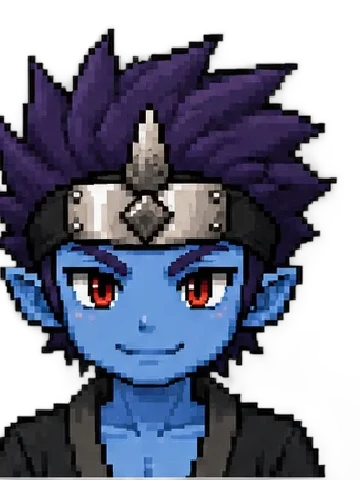
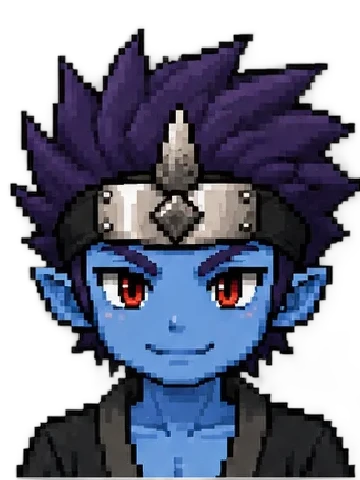
fix: 里ごとのキャラを横長カード化・ネムの相棒をCNPのエマへ・アウンの顔位置調整
- 里ごとの3人を全幅の横長カードに変更（画像左・名前と紹介文を右）。
  .chara-grid本体の定義が後方にあり上書きが負けていたため、
  クラス2つ重ねで詳細度を上げて解決
- ネムの紹介文の相棒を本作のCNPアレンジ設定（ユニコーンのエマ）へ差し替え
- アウンの顔グラは元画像内で顔が中央より左にあるため、切り出し窓を
  30px左へずらして顔を枠の中央に合わせた

diff --git a/style.css b/style.css
@@ -999,11 +999,46 @@ body[data-season='winter'] { background-color: #14171a; }
   background: linear-gradient(90deg, rgba(201, 162, 74, 0.3), transparent);
 }
 
+/* 里ごとの3人は横長カード（画像の右にテキスト・2026-08-04本人指示）。
+   親の.chara-gridのグリッド指定を1列に上書きし、各liの中を img｜名前+紹介文 の2カラムにする */
+/* .chara-grid本体の定義がこの後ろにあるため、クラス2つ重ねで詳細度を上げて確実に勝たせる */
+.chara-grid.chara-grid--bio {
+  grid-template-columns: 1fr;
+  gap: clamp(10px, 1.6vw, 16px);
+}
+
+.chara-grid.chara-grid--bio li {
+  display: grid;
+  grid-template-columns: clamp(104px, 12vw, 140px) 1fr;
+  grid-template-rows: auto 1fr;
+  column-gap: clamp(14px, 2.2vw, 22px);
+  row-gap: 2px;
+  align-items: start;
+  text-align: left;
+  padding: clamp(12px, 1.8vw, 18px);
+  background: rgba(42, 35, 26, 0.42);
+  border: 1px solid rgba(201, 162, 74, 0.22);
+  border-radius: 3px;
+}
+
+.chara-grid--bio li img {
+  grid-row: 1 / 3;
+  width: 100%;
+}
+
+.chara-grid--bio li > span {
+  margin-top: 2px;
+  font-family: var(--font-display);
+  font-size: 0.95rem;
+  font-weight: 700;
+  color: var(--kin-light);
+}
+
 .chara-bio {
   margin: 6px 0 0;
-  font-size: 0.78rem;
-  line-height: 1.75;
-  color: var(--muted);
+  font-size: 0.84rem;
+  line-height: 1.85;
+  color: var(--kinari);
   text-align: left;
 }
 .chara-grid {
@@ -1248,9 +1283,9 @@ body[data-season='winter'] { background-color: #14171a; }
     grid-template-columns: repeat(auto-fill, minmax(118px, 1fr));
   }
 
-  /* 里ごとの3人組は狭い画面でも3列を保つ（1人だけ下に落ちると里の区切りが崩れる） */
-  .chara-grid--bio {
-    grid-template-columns: repeat(3, 1fr);
+  /* 横長カードは狭い画面でもそのまま（画像だけ小さく） */
+  .chara-grid--bio li {
+    grid-template-columns: 96px 1fr;
   }
 
   .chara-main {

diff --git a/index.html b/index.html
@@ -333,7 +333,8 @@
           <li>
             <img src="assets/face/nemu.webp" alt="ネム" loading="lazy" />
             <span>ネム</span>
-            <p class="chara-bio">絵筆の忍術「動植綵絵」を使う自由人。ひよこのピヨチとうさぎのウサピを連れて、遊び方をやさしく教えてくれます。</p>
+            <!-- パートナーは本作のCNPアレンジ設定（ネム=ユニコーンのエマ）に合わせる（2026-08-04本人指示） -->
+            <p class="chara-bio">絵筆の忍術「動植綵絵」を使う自由人。ユニコーンのパートナー「エマ」を連れて、遊び方をやさしく教えてくれます。</p>
           </li>
         </ul>
 
